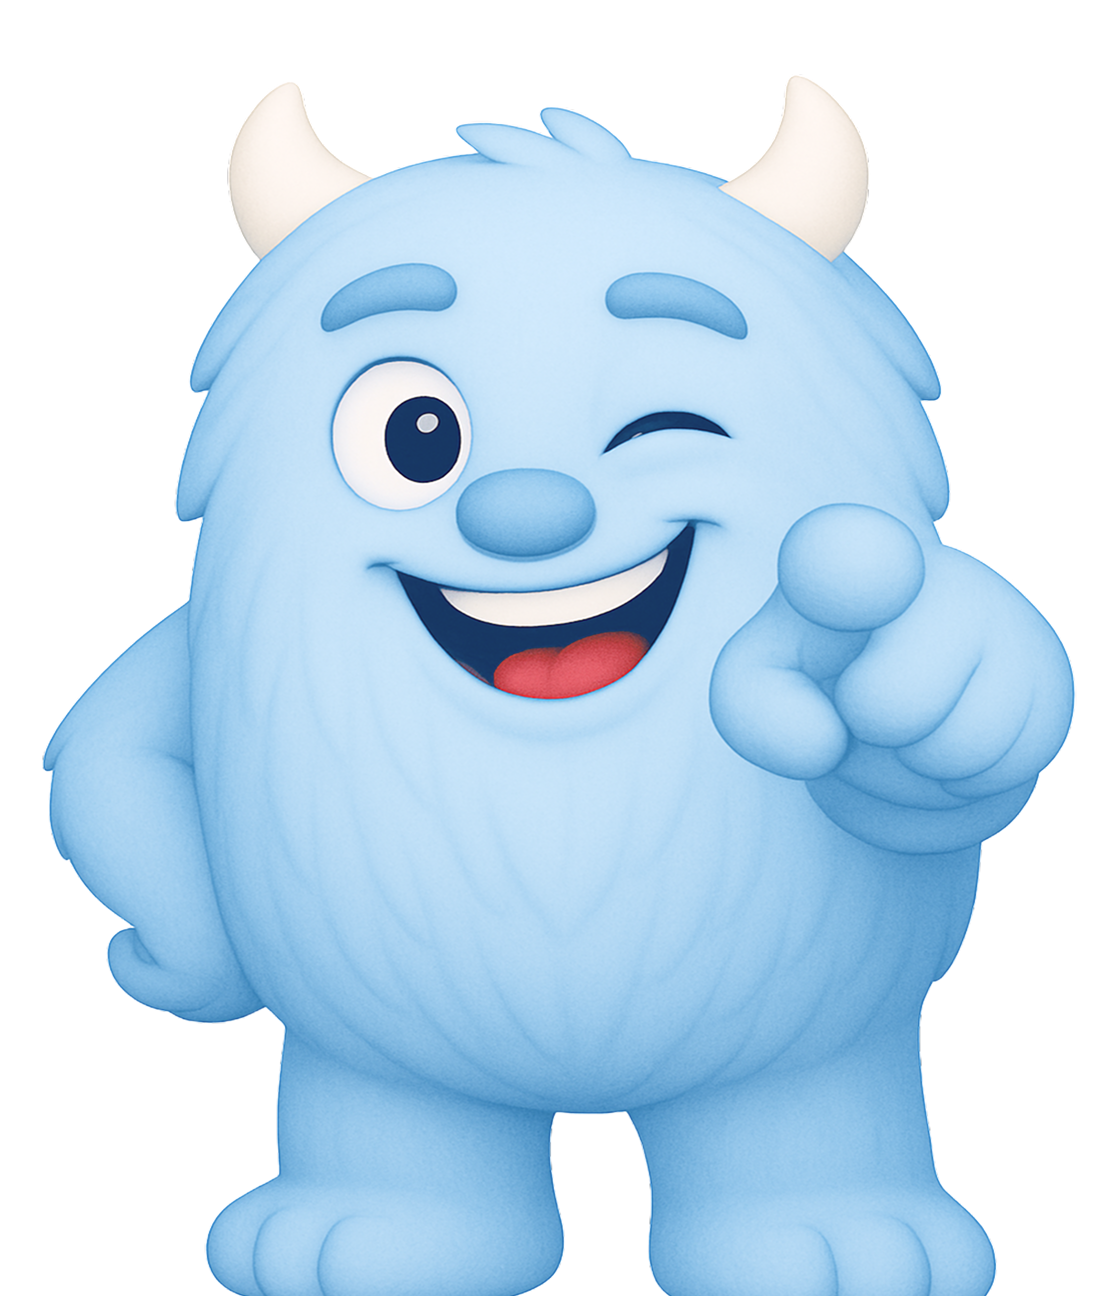
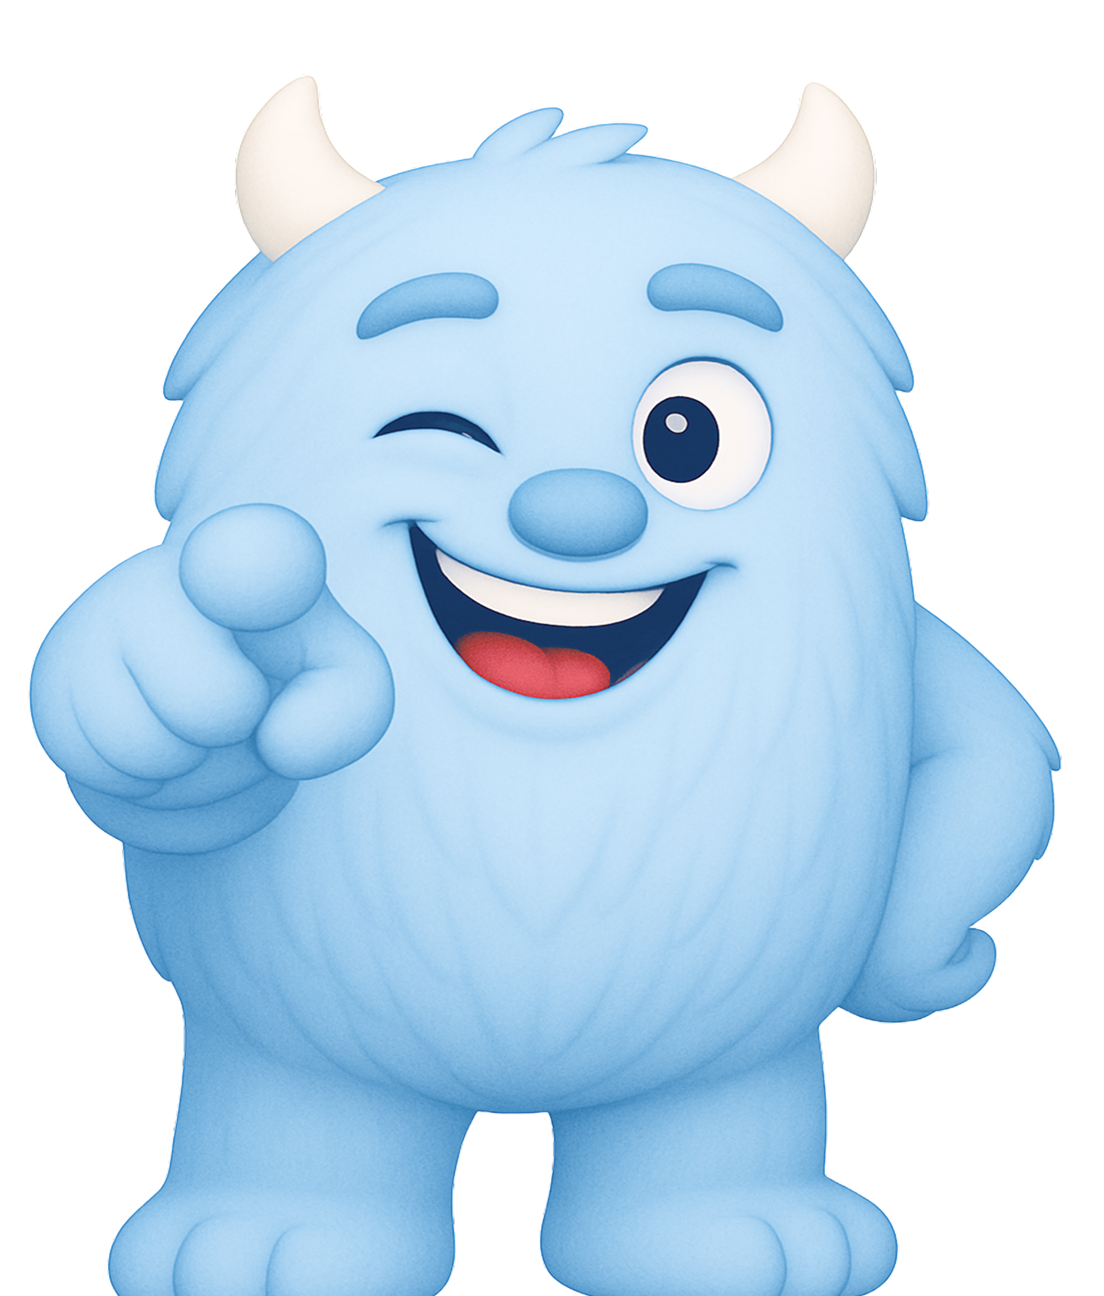
refactor(mascot): implement dynamic pose selection for supportive, wise, and playful personalities in MascotGreetingService and update mascot image assets for enhanced user engagement

diff --git a/services/MascotGreetingService.ts b/services/MascotGreetingService.ts
@@ -189,6 +189,31 @@ export class MascotGreetingService implements IMascotGreetingService {
    * Get visual configuration for a personality
    */
   getVisualConfig(personality: PersonalityType): PersonalityVisualConfig {
+    // Special handling for the "supportive" personality – rotate through approved poses
+    if (personality === 'supportive') {
+      const collapsedVariants: PpMascotVariant[] = [
+        'nubo-supportive-1-pp',
+        'nubo-supportive-2-pp',
+        'nubo-supportive-3-pp',
+      ];
+      const expandedVariants: NonPpMascotVariant[] = [
+        'nubo-supportive-2',
+        'nubo-supportive-3',
+        'nubo-supportive-4',
+        'nubo-supportive-6',
+      ];
+
+      const expandedVariant = expandedVariants[Math.floor(Math.random() * expandedVariants.length)];
+      const collapsedVariant = collapsedVariants[Math.floor(Math.random() * collapsedVariants.length)];
+
+      return {
+        personality: 'supportive',
+        collapsedVariant,
+        expandedVariant,
+        description: PERSONALITY_VISUAL_CONFIGS.supportive.description,
+      };
+    }
+
     // Special handling for the "cool" personality – rotate through multiple poses
     if (personality === 'cool') {
       const collapsedVariants: PpMascotVariant[] = [
@@ -203,22 +228,66 @@ export class MascotGreetingService implements IMascotGreetingService {
         'nubo-cool-4',
       ];
 
-      // Pick a random index for the expanded variant first
-      const expandedIndex = Math.floor(Math.random() * expandedVariants.length);
-      const expandedVariant = expandedVariants[expandedIndex];
-
-      // If we have a matching collapsed variant (1-3), use the same index.
-      // For the 4th pose (index 3), fall back to a random collapsed variant.
-      const collapsedVariant =
-        expandedIndex < collapsedVariants.length
-          ? collapsedVariants[expandedIndex]
-          : collapsedVariants[Math.floor(Math.random() * collapsedVariants.length)];
+      const expandedVariant = expandedVariants[Math.floor(Math.random() * expandedVariants.length)];
+      const collapsedVariant = collapsedVariants[Math.floor(Math.random() * collapsedVariants.length)];
 
       return {
         personality: 'cool',
         collapsedVariant,
         expandedVariant,
         description: PERSONALITY_VISUAL_CONFIGS.cool.description,
+      };
+    }
+
+    // Special handling for the "wise" personality – rotate through multiple poses
+    if (personality === 'wise') {
+      const collapsedVariants: PpMascotVariant[] = [
+        'nubo-wise-1-pp',
+        'nubo-wise-2-pp',
+        'nubo-wise-3-pp',
+        'nubo-wise-6-pp',
+      ];
+      const expandedVariants: NonPpMascotVariant[] = [
+        'nubo-wise-1',
+        'nubo-wise-2',
+        'nubo-wise-3',
+        'nubo-wise-4',
+        'nubo-wise-6',
+      ];
+
+      const expandedVariant = expandedVariants[Math.floor(Math.random() * expandedVariants.length)];
+      const collapsedVariant = collapsedVariants[Math.floor(Math.random() * collapsedVariants.length)];
+
+      return {
+        personality: 'wise',
+        collapsedVariant,
+        expandedVariant,
+        description: PERSONALITY_VISUAL_CONFIGS.wise.description,
+      };
+    }
+
+    // Special handling for the "playful" personality – rotate through approved poses
+    if (personality === 'playful') {
+      const collapsedVariants: PpMascotVariant[] = [
+        'nubo-playful-1-pp',
+        'nubo-playful-2-pp',
+        'nubo-playful-3-pp',
+      ];
+      const expandedVariants: NonPpMascotVariant[] = [
+        'nubo-playful-2',
+        'nubo-playful-3',
+        'nubo-playful-4',
+        'nubo-playful-5',
+      ];
+
+      const expandedVariant = expandedVariants[Math.floor(Math.random() * expandedVariants.length)];
+      const collapsedVariant = collapsedVariants[Math.floor(Math.random() * collapsedVariants.length)];
+
+      return {
+        personality: 'playful',
+        collapsedVariant,
+        expandedVariant,
+        description: PERSONALITY_VISUAL_CONFIGS.playful.description,
       };
     }
 

diff --git a/services/MascotImageService.ts b/services/MascotImageService.ts
@@ -13,29 +13,23 @@ const mascotImages: MascotImageMap = {
     require('../assets/mascot/nubo-cool-4.png'),
   ],
   playful: [
-    require('../assets/mascot/nubo-playful-1.png'),
     require('../assets/mascot/nubo-playful-2.png'),
     require('../assets/mascot/nubo-playful-3.png'),
     require('../assets/mascot/nubo-playful-4.png'),
     require('../assets/mascot/nubo-playful-5.png'),
   ],
   supportive: [
-    require('../assets/mascot/nubo-supportive-1.png'),
     require('../assets/mascot/nubo-supportive-2.png'),
     require('../assets/mascot/nubo-supportive-3.png'),
     require('../assets/mascot/nubo-supportive-4.png'),
-    require('../assets/mascot/nubo-supportive-5.png'),
     require('../assets/mascot/nubo-supportive-6.png'),
-    require('../assets/mascot/nubo-welcoming-1.png'),
-    require('../assets/mascot/nubo-welcoming-2.png'),
-    require('../assets/mascot/nubo-welcoming-3.png'),
   ],
   wise: [
     require('../assets/mascot/nubo-wise-1.png'),
     require('../assets/mascot/nubo-wise-2.png'),
     require('../assets/mascot/nubo-wise-3.png'),
     require('../assets/mascot/nubo-wise-4.png'),
-    require('../assets/mascot/nubo-wise-5.png'),
+    require('../assets/mascot/nubo-wise-6.png'),
   ],
 };
 

diff --git a/utils/loadAssets.ts b/utils/loadAssets.ts
@@ -80,6 +80,8 @@ export const AppImages = {
   'nubo-wise-3': require('../assets/mascot/nubo-wise-3.png'),
   'nubo-wise-4': require('../assets/mascot/nubo-wise-4.png'),
   'nubo-wise-5': require('../assets/mascot/nubo-wise-5.png'),
+  'nubo-wise-6-pp': require('../assets/mascot/nubo-wise-6-pp.png'),
+  'nubo-wise-6': require('../assets/mascot/nubo-wise-6.png'),
 };
 
 function cacheImages(images: (string | number)[]): Promise<(void | boolean)[]> {

diff --git a/types/mascot.ts b/types/mascot.ts
@@ -4,6 +4,7 @@ export type PpMascotVariant =
   | 'nubo-wise-1-pp'
   | 'nubo-wise-2-pp'
   | 'nubo-wise-3-pp'
+  | 'nubo-wise-6-pp'
   | 'nubo-welcoming-1-pp'
   | 'nubo-brushing-1-pp'
   | 'nubo-brushing-2-pp'
@@ -26,6 +27,7 @@ export type NonPpMascotVariant =
   | 'nubo-wise-3'
   | 'nubo-wise-4'
   | 'nubo-wise-5'
+  | 'nubo-wise-6'
   | 'nubo-welcoming-1'
   | 'nubo-welcoming-2'
   | 'nubo-welcoming-3'
